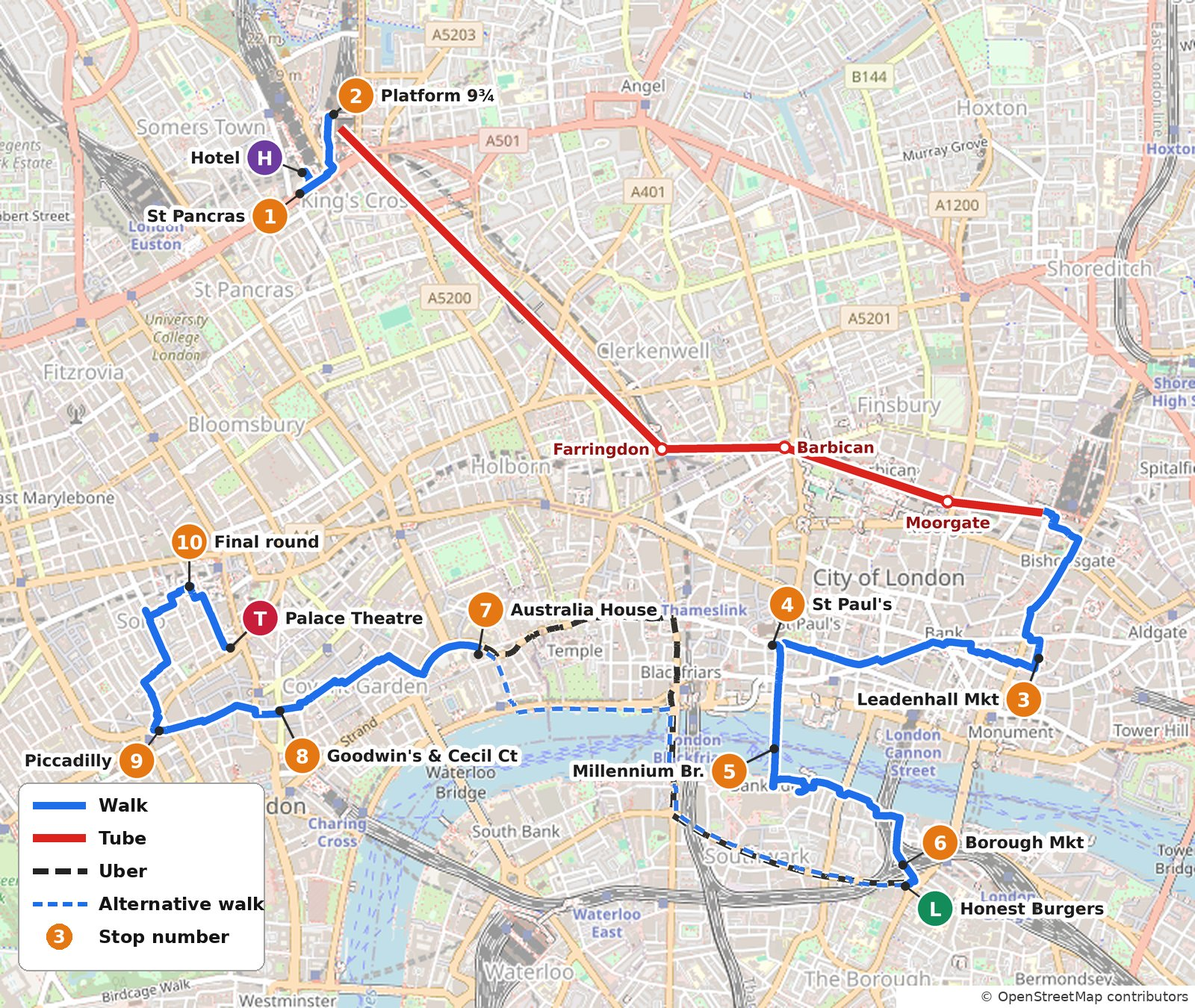
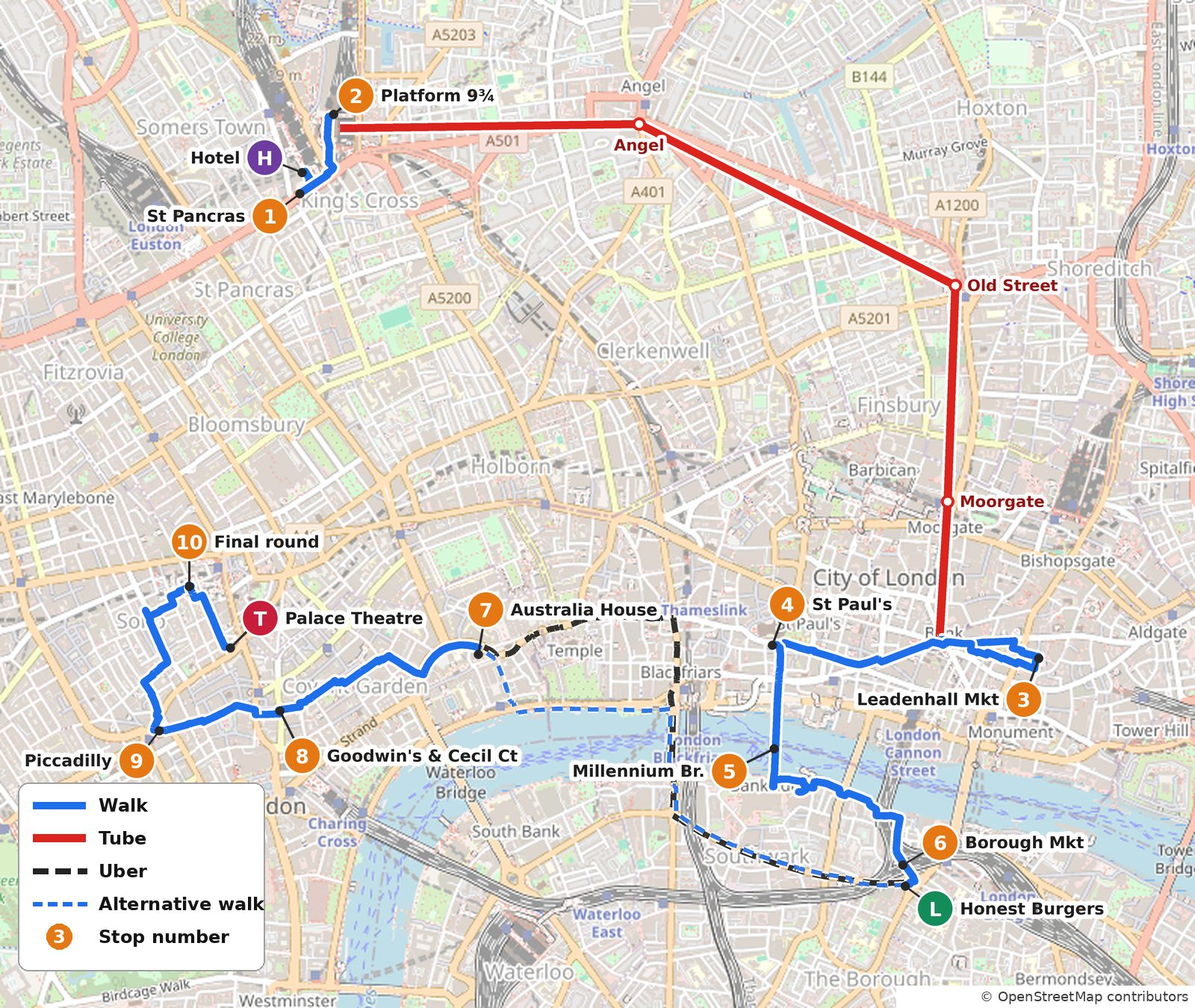
Tighter Tuesday plan

diff --git a/index.html b/index.html
@@ -138,37 +138,40 @@ Piccadilly line from Heathrow Terminals 2 &amp; 3 toward <b>Cockfosters</b>, 17 
 <div class="title">Rules → hotel</div><div class="body">Maiden Lane is pedestrian: set pickup on <b>Southampton St</b> or the <b>Strand</b>. Black cabs pass on the Strand.</div><div class="btns"><a class="btn g" href="https://www.google.com/maps/dir/?api=1&amp;origin=51.51083,-0.12319&amp;destination=51.52990,-0.12580&amp;travelmode=driving" target="_blank" rel="noopener">Google Maps</a><a class="btn a" href="https://maps.apple.com/?saddr=51.51083,-0.12319&amp;daddr=51.52990,-0.12580&amp;dirflg=d" target="_blank" rel="noopener">Apple Maps</a><a class="btn u" href="https://m.uber.com/ul/?action=setPickup&amp;pickup=my_location&amp;dropoff%5Blatitude%5D=51.52990&amp;dropoff%5Blongitude%5D=-0.12580&amp;dropoff%5Bnickname%5D=St+Pancras+London+hotel" target="_blank" rel="noopener">Uber</a></div></div></div></div><details class="places"><summary>Open any stop on a map</summary><ul><li><span>Hotel</span><a class="pin g" href="https://www.google.com/maps/search/?api=1&amp;query=51.52990,-0.12580" target="_blank" rel="noopener">Google</a><a class="pin a" href="https://maps.apple.com/?ll=51.52990,-0.12580&amp;q=St+Pancras+London+hotel" target="_blank" rel="noopener">Apple</a></li><li><span>Option B: Euston (Tube)</span><a class="pin g" href="https://www.google.com/maps/search/?api=1&amp;query=51.52737,-0.13275" target="_blank" rel="noopener">Google</a><a class="pin a" href="https://maps.apple.com/?ll=51.52737,-0.13275&amp;q=Euston+Underground+station" target="_blank" rel="noopener">Apple</a></li><li><span>1 · The Queens Arms</span><a class="pin g" href="https://www.google.com/maps/search/?api=1&amp;query=51.49259,-0.13918" target="_blank" rel="noopener">Google</a><a class="pin a" href="https://maps.apple.com/?ll=51.49259,-0.13918&amp;q=The+Queens+Arms" target="_blank" rel="noopener">Apple</a></li><li><span>2 · Victoria Memorial</span><a class="pin g" href="https://www.google.com/maps/search/?api=1&amp;query=51.50184,-0.14059" target="_blank" rel="noopener">Google</a><a class="pin a" href="https://maps.apple.com/?ll=51.50184,-0.14059&amp;q=Victoria+Memorial" target="_blank" rel="noopener">Apple</a></li><li><span>3 · Blue Bridge</span><a class="pin g" href="https://www.google.com/maps/search/?api=1&amp;query=51.50232,-0.13520" target="_blank" rel="noopener">Google</a><a class="pin a" href="https://maps.apple.com/?ll=51.50232,-0.13520&amp;q=Blue+Bridge,+St+James%27s+Park" target="_blank" rel="noopener">Apple</a></li><li><span>4 · Westminster Abbey</span><a class="pin g" href="https://www.google.com/maps/search/?api=1&amp;query=51.49944,-0.12800" target="_blank" rel="noopener">Google</a><a class="pin a" href="https://maps.apple.com/?ll=51.49944,-0.12800&amp;q=Westminster+Abbey" target="_blank" rel="noopener">Apple</a></li><li><span>5 · Westminster Bridge</span><a class="pin g" href="https://www.google.com/maps/search/?api=1&amp;query=51.50085,-0.12178" target="_blank" rel="noopener">Google</a><a class="pin a" href="https://maps.apple.com/?ll=51.50085,-0.12178&amp;q=Westminster+Bridge" target="_blank" rel="noopener">Apple</a></li><li><span>6 · Downing St gates</span><a class="pin g" href="https://www.google.com/maps/search/?api=1&amp;query=51.50318,-0.12632" target="_blank" rel="noopener">Google</a><a class="pin a" href="https://maps.apple.com/?ll=51.50318,-0.12632&amp;q=Downing+Street" target="_blank" rel="noopener">Apple</a></li><li><span>7 · Horse Guards</span><a class="pin g" href="https://www.google.com/maps/search/?api=1&amp;query=51.50478,-0.12690" target="_blank" rel="noopener">Google</a><a class="pin a" href="https://maps.apple.com/?ll=51.50478,-0.12690&amp;q=Horse+Guards" target="_blank" rel="noopener">Apple</a></li><li><span>8 · Trafalgar Square</span><a class="pin g" href="https://www.google.com/maps/search/?api=1&amp;query=51.50790,-0.12810" target="_blank" rel="noopener">Google</a><a class="pin a" href="https://maps.apple.com/?ll=51.50790,-0.12810&amp;q=Trafalgar+Square" target="_blank" rel="noopener">Apple</a></li><li><span>9 · Covent Garden Piazza</span><a class="pin g" href="https://www.google.com/maps/search/?api=1&amp;query=51.51198,-0.12274" target="_blank" rel="noopener">Google</a><a class="pin a" href="https://maps.apple.com/?ll=51.51198,-0.12274&amp;q=Covent+Garden" target="_blank" rel="noopener">Apple</a></li><li><span>10 · Rules</span><a class="pin g" href="https://www.google.com/maps/search/?api=1&amp;query=51.51083,-0.12319" target="_blank" rel="noopener">Google</a><a class="pin a" href="https://maps.apple.com/?ll=51.51083,-0.12319&amp;q=Rules" target="_blank" rel="noopener">Apple</a></li></ul></details></section>
 <section id="tue" class="tab"><div class="priv">Host copy, keep private</div><h2>Tuesday 17 Nov <small>The Hogwarts Challenge</small></h2>
 <button class="mapbtn" data-src="img/tue_overview.jpg"><img src="img/tue_overview.jpg" alt="Whole day. Numbers = the 10 game stops; L lunch, T theatre."><span class="zoomhint">Tap to enlarge</span></button><div class="cap">Whole day. Numbers = the 10 game stops; L lunch, T theatre.</div><div class="thumbs"><button class="thumb" data-src="img/tue_morning.jpg"><img src="img/tue_morning.jpg" alt="Morning: KX → Borough" loading="lazy"><span>Morning: KX → Borough</span></button><button class="thumb" data-src="img/tue_west.jpg"><img src="img/tue_west.jpg" alt="Afternoon: Strand → theatre" loading="lazy"><span>Afternoon: Strand → theatre</span></button></div>
-<div class="sum">Walking ≈ <b>7.0 km</b> (9.4 km if you walk after lunch) · Tube ×1 · Uber ×1–2</div>
-<div class="tl"><div class="item stop"><div class="dot">•</div><div class="card"><div class="top"><span class="time">8:00–8:45</span><span class="badge stop">Stop</span></div>
-<div class="title">Breakfast: Booking Office 1869 (in the hotel)</div><div class="body">Planned, not reserved. Mention the coeliac requirement.</div><div class="btns"><a class="btn g sm" href="https://www.google.com/maps/search/?api=1&amp;query=51.53010,-0.12572" target="_blank" rel="noopener">Google pin</a><a class="btn a sm" href="https://maps.apple.com/?ll=51.53010,-0.12572&amp;q=Booking+Office+1869" target="_blank" rel="noopener">Apple pin</a></div></div></div><div class="item walk"><div class="dot">1</div><div class="card">
-<div class="top"><span class="time">8:45–9:05</span><span class="badge walk">Walk</span><span class="dur">2 min · 0.2 km</span></div>
-<div class="title">→ ① St Pancras frontage (Euston Rd)</div><div class="body">Full Gothic frontage and clock tower. Round 1.</div><div class="btns"><a class="btn g" href="https://www.google.com/maps/dir/?api=1&amp;origin=51.53010,-0.12572&amp;destination=51.52935,-0.12585&amp;travelmode=walking" target="_blank" rel="noopener">Google Maps</a><a class="btn a" href="https://maps.apple.com/?saddr=51.53010,-0.12572&amp;daddr=51.52935,-0.12585&amp;dirflg=w" target="_blank" rel="noopener">Apple Maps</a></div></div></div><div class="item walk"><div class="dot">2</div><div class="card">
-<div class="top"><span class="time">9:05–9:40</span><span class="badge walk">Walk</span><span class="dur">5 min · 0.4 km</span></div>
-<div class="title">→ ② King's Cross, Platform 9¾</div><div class="body">Across Pancras Rd into the western concourse. Photo queue + shop. Round 2.</div><div class="btns"><a class="btn g" href="https://www.google.com/maps/dir/?api=1&amp;origin=51.52935,-0.12585&amp;destination=51.53219,-0.12391&amp;travelmode=walking" target="_blank" rel="noopener">Google Maps</a><a class="btn a" href="https://maps.apple.com/?saddr=51.52935,-0.12585&amp;daddr=51.53219,-0.12391&amp;dirflg=w" target="_blank" rel="noopener">Apple Maps</a></div></div></div><div class="item tube"><div class="dot">3</div><div class="card">
-<div class="top"><span class="time">~9:40–10:00</span><span class="badge tube">Tube</span><span class="dur">4 stops · ~10 min</span></div>
-<div class="title">King's Cross St Pancras → Liverpool Street</div><div class="body"><b>Circle, Hammersmith &amp; City or Metropolitan</b> line, <b>eastbound</b> (H&amp;C toward Barking, Met toward Aldgate).<br><b>4 stops:</b> Farringdon → Barbican → Moorgate → <b>Liverpool Street</b>.<br>~10 min on the train + 5–10 min to the platform. Off-peak after 9:30. Each person taps their own card.<br><i>Backup:</i> Northern line toward Morden via Bank, 4 stops to <b>Bank</b>, then 6 min walk.</div><div class="btns"><a class="btn g" href="https://www.google.com/maps/dir/?api=1&amp;origin=51.53168,-0.12354&amp;destination=51.51794,-0.08316&amp;travelmode=transit" target="_blank" rel="noopener">Google Maps</a><a class="btn a" href="https://maps.apple.com/?saddr=51.53168,-0.12354&amp;daddr=51.51794,-0.08316&amp;dirflg=r" target="_blank" rel="noopener">Apple Maps</a></div></div></div><div class="item walk"><div class="dot">4</div><div class="card">
-<div class="top"><span class="time">~10:00–10:20</span><span class="badge walk">Walk</span><span class="dur">12 min · 0.9 km</span></div>
-<div class="title">Liverpool St → ③ Leadenhall Market / Bull's Head Passage</div><div class="body">Bishopsgate → Leadenhall St → Whittington Ave. 10:20–10:50 here; optional coffee (Rosslyn).</div><div class="btns"><a class="btn g" href="https://www.google.com/maps/dir/?api=1&amp;origin=51.51794,-0.08316&amp;destination=51.51273,-0.08340&amp;travelmode=walking" target="_blank" rel="noopener">Google Maps</a><a class="btn a" href="https://maps.apple.com/?saddr=51.51794,-0.08316&amp;daddr=51.51273,-0.08340&amp;dirflg=w" target="_blank" rel="noopener">Apple Maps</a></div></div></div><div class="item walk"><div class="dot">5</div><div class="card">
-<div class="top"><span class="time">10:50–11:35</span><span class="badge walk">Walk</span><span class="dur">15 min · 1.1 km</span></div>
-<div class="title">→ ④ St Paul's Cathedral (exterior)</div><div class="body">Cornhill → Queen Victoria St → Cannon St.</div><div class="btns"><a class="btn g" href="https://www.google.com/maps/dir/?api=1&amp;origin=51.51245,-0.08403&amp;destination=51.51320,-0.09870&amp;travelmode=walking" target="_blank" rel="noopener">Google Maps</a><a class="btn a" href="https://maps.apple.com/?saddr=51.51245,-0.08403&amp;daddr=51.51320,-0.09870&amp;dirflg=w" target="_blank" rel="noopener">Apple Maps</a></div></div></div><div class="item walk"><div class="dot">6</div><div class="card">
-<div class="top"><span class="time">11:35–12:20</span><span class="badge walk">Walk</span><span class="dur">20 min · 1.5 km</span></div>
-<div class="title">→ ⑤ Millennium Bridge → Bankside → ⑥ Borough Market</div><div class="body">Peter's Hill, cross the bridge, left along Bankside past the Globe, Clink St, to Stoney St. Round 6 12:20–12:45.</div><div class="btns"><a class="btn g" href="https://www.google.com/maps/dir/?api=1&amp;origin=51.51320,-0.09870&amp;destination=51.50534,-0.09120&amp;travelmode=walking&amp;waypoints=51.50950,-0.09860" target="_blank" rel="noopener">Google Maps</a><a class="btn a" href="https://maps.apple.com/?saddr=51.51320,-0.09870&amp;daddr=51.50534,-0.09120&amp;dirflg=w" target="_blank" rel="noopener">Apple Maps</a></div></div></div><div class="item walk"><div class="dot">7</div><div class="card">
-<div class="top"><span class="time">~12:40</span><span class="badge walk">Walk</span><span class="dur">2 min · 0.1 km</span></div>
-<div class="title">Stoney St → Honest Burgers, 5–7 Southwark St</div><div class="body">Lunch 12:45–1:45 (walk-in; allow for a queue). Mention coeliac.</div><div class="btns"><a class="btn g" href="https://www.google.com/maps/dir/?api=1&amp;origin=51.50534,-0.09120&amp;destination=51.50458,-0.09106&amp;travelmode=walking" target="_blank" rel="noopener">Google Maps</a><a class="btn a" href="https://maps.apple.com/?saddr=51.50534,-0.09120&amp;daddr=51.50458,-0.09106&amp;dirflg=w" target="_blank" rel="noopener">Apple Maps</a></div></div></div><div class="item uber"><div class="dot">8</div><div class="card">
-<div class="top"><span class="time">1:45–2:05</span><span class="badge uber">Uber</span><span class="dur">10–20 min</span></div>
-<div class="title">Honest Burgers → ⑦ Australia House, Strand</div><div class="body">Recommended Uber: ~4.3 km walked by now and no one-seat Tube. Request on Southwark St. <i>Walk alt:</i> Blackfriars Bridge + Embankment, 31 min · 2.4 km.</div><div class="btns"><a class="btn g" href="https://www.google.com/maps/dir/?api=1&amp;origin=51.50458,-0.09106&amp;destination=51.51287,-0.11559&amp;travelmode=driving" target="_blank" rel="noopener">Google Maps</a><a class="btn a" href="https://maps.apple.com/?saddr=51.50458,-0.09106&amp;daddr=51.51287,-0.11559&amp;dirflg=d" target="_blank" rel="noopener">Apple Maps</a><a class="btn u" href="https://m.uber.com/ul/?action=setPickup&amp;pickup=my_location&amp;dropoff%5Blatitude%5D=51.51287&amp;dropoff%5Blongitude%5D=-0.11559&amp;dropoff%5Bnickname%5D=Australia+House%2C+Strand" target="_blank" rel="noopener">Uber</a><a class="btn x" href="https://www.google.com/maps/dir/?api=1&amp;origin=51.50458,-0.09106&amp;destination=51.51287,-0.11559&amp;travelmode=walking&amp;waypoints=51.50760,-0.10400" target="_blank" rel="noopener">Walk alt (Google)</a></div></div></div><div class="item walk"><div class="dot">9</div><div class="card">
-<div class="top"><span class="time">2:50–3:45</span><span class="badge walk">Walk</span><span class="dur">15 min · 1.1 km</span></div>
-<div class="title">→ ⑧ Goodwin's Court → Cecil Court</div><div class="body">Through Covent Garden (King St) to Goodwin's Court off St Martin's Lane, then across to Cecil Court.</div><div class="btns"><a class="btn g" href="https://www.google.com/maps/dir/?api=1&amp;origin=51.51287,-0.11559&amp;destination=51.51073,-0.12766&amp;travelmode=walking&amp;waypoints=51.51095,-0.12633" target="_blank" rel="noopener">Google Maps</a><a class="btn a" href="https://maps.apple.com/?saddr=51.51287,-0.11559&amp;daddr=51.51073,-0.12766&amp;dirflg=w" target="_blank" rel="noopener">Apple Maps</a></div></div></div><div class="item walk"><div class="dot">10</div><div class="card">
-<div class="top"><span class="time">3:45–4:15</span><span class="badge walk">Walk</span><span class="dur">6 min · 0.4 km</span></div>
-<div class="title">Cecil Court → ⑨ Piccadilly Circus</div><div class="body">Cross Charing Cross Rd and go <b>straight on</b> via Leicester Sq. Don't head north (toward Cambridge Circus).</div><div class="btns"><a class="btn g" href="https://www.google.com/maps/dir/?api=1&amp;origin=51.51071,-0.12834&amp;destination=51.51014,-0.13394&amp;travelmode=walking" target="_blank" rel="noopener">Google Maps</a><a class="btn a" href="https://maps.apple.com/?saddr=51.51071,-0.12834&amp;daddr=51.51014,-0.13394&amp;dirflg=w" target="_blank" rel="noopener">Apple Maps</a></div></div></div><div class="item stop"><div class="dot">•</div><div class="card"><div class="top"><span class="time">4:15–6:00</span><span class="badge stop">Stop</span></div>
-<div class="title">Coffee &amp; rest (4:15–5), early dinner (5–6). Restaurant TBD</div><div class="body">Pick somewhere west of Wardour St so the walk to the final round avoids Shaftesbury Ave / Cambridge Circus.</div></div></div><div class="item walk"><div class="dot">11</div><div class="card">
-<div class="top"><span class="time">~6:00–6:20</span><span class="badge walk">Walk</span><span class="dur">12 min · 0.9 km</span></div>
-<div class="title">→ ⑩ Final round (suggested: Soho Square)</div><div class="body">Example from Piccadilly: Brewer St → Wardour St → Dean St → Soho Square. Suggested spot only: check the sightline first, then do the reveal.</div><div class="btns"><a class="btn g" href="https://www.google.com/maps/dir/?api=1&amp;origin=51.51014,-0.13394&amp;destination=51.51530,-0.13220&amp;travelmode=walking&amp;waypoints=51.51223,-0.13416%7C51.51445,-0.13472" target="_blank" rel="noopener">Google Maps</a><a class="btn a" href="https://maps.apple.com/?saddr=51.51014,-0.13394&amp;daddr=51.51530,-0.13220&amp;dirflg=w" target="_blank" rel="noopener">Apple Maps</a></div></div></div><div class="item walk"><div class="dot">12</div><div class="card">
-<div class="top"><span class="time">6:20–6:30</span><span class="badge walk">Walk</span><span class="dur">4 min · 0.3 km</span></div>
-<div class="title">Soho Square → Palace Theatre</div><div class="body">Down Greek or Frith St to Cambridge Circus. <b>Theatre advises arriving 1 hour before</b>; latecomers not admitted.</div><div class="btns"><a class="btn g" href="https://www.google.com/maps/dir/?api=1&amp;origin=51.51530,-0.13220&amp;destination=51.51310,-0.12984&amp;travelmode=walking" target="_blank" rel="noopener">Google Maps</a><a class="btn a" href="https://maps.apple.com/?saddr=51.51530,-0.13220&amp;daddr=51.51310,-0.12984&amp;dirflg=w" target="_blank" rel="noopener">Apple Maps</a></div></div></div><div class="item stop"><div class="dot">•</div><div class="card"><div class="top"><span class="time">7:00</span><span class="badge stop">Stop</span></div>
+<div class="sum">Walking ≈ <b>6.7 km</b> (9.0 km if you walk after lunch) · Tube ×1 · Uber ×1–2 · at Honest Burgers ~11:50</div>
+<div class="tl"><div class="item stop"><div class="dot">•</div><div class="card"><div class="top"><span class="time">8:00–8:40</span><span class="badge stop">Stop</span></div>
+<div class="title">Breakfast: Booking Office 1869 (in the hotel)</div><div class="body">Planned, not reserved. Mention the coeliac requirement. Ask for the bill a little early.</div><div class="btns"><a class="btn g sm" href="https://www.google.com/maps/search/?api=1&amp;query=51.53010,-0.12572" target="_blank" rel="noopener">Google pin</a><a class="btn a sm" href="https://maps.apple.com/?ll=51.53010,-0.12572&amp;q=Booking+Office+1869" target="_blank" rel="noopener">Apple pin</a></div></div></div><div class="item walk"><div class="dot">1</div><div class="card">
+<div class="top"><span class="time">8:40–8:43</span><span class="badge walk">Walk</span><span class="dur">2 min · 0.2 km</span></div>
+<div class="title">→ ① St Pancras frontage (Euston Rd)</div><div class="body">Full Gothic frontage and clock tower. <b>Round 1: 8:43–8:53.</b></div><div class="btns"><a class="btn g" href="https://www.google.com/maps/dir/?api=1&amp;origin=51.53010,-0.12572&amp;destination=51.52935,-0.12585&amp;travelmode=walking" target="_blank" rel="noopener">Google Maps</a><a class="btn a" href="https://maps.apple.com/?saddr=51.53010,-0.12572&amp;daddr=51.52935,-0.12585&amp;dirflg=w" target="_blank" rel="noopener">Apple Maps</a></div></div></div><div class="item walk"><div class="dot">2</div><div class="card">
+<div class="top"><span class="time">8:53–9:00</span><span class="badge walk">Walk</span><span class="dur">5 min · 0.4 km</span></div>
+<div class="title">→ ② King's Cross, Platform 9¾</div><div class="body">Across Pancras Rd into the western concourse. <b>9:00–9:25 here:</b> Round 2, photo, quick shop.<div class="warnbox"><b>Queue cap: 15 min.</b> If the trolley queue looks longer, skip the official photo, take your own from beside the line and do the round there.</div></div><div class="btns"><a class="btn g" href="https://www.google.com/maps/dir/?api=1&amp;origin=51.52935,-0.12585&amp;destination=51.53219,-0.12391&amp;travelmode=walking" target="_blank" rel="noopener">Google Maps</a><a class="btn a" href="https://maps.apple.com/?saddr=51.52935,-0.12585&amp;daddr=51.53219,-0.12391&amp;dirflg=w" target="_blank" rel="noopener">Apple Maps</a></div></div></div><div class="item tube"><div class="dot">3</div><div class="card">
+<div class="top"><span class="time">9:25–9:50</span><span class="badge tube">Tube</span><span class="dur">4 stops · ~9 min</span></div>
+<div class="title">Northern line: King's Cross St Pancras → Bank</div><div class="body">Follow signs to the <b>Northern line southbound</b> (trains via Bank).<br><b>4 stops:</b> Angel → Old Street → Moorgate → <b>Bank</b>. About 9 min on the train. TfL's planner allows ~23 min from the platform to Leadenhall, including the long walk out at Bank.<br>Tapping in at about 9:30 is off-peak. Each person taps their own card.</div><div class="btns"><a class="btn g" href="https://www.google.com/maps/dir/?api=1&amp;origin=51.53168,-0.12354&amp;destination=51.51340,-0.08909&amp;travelmode=transit" target="_blank" rel="noopener">Google Maps</a><a class="btn a" href="https://maps.apple.com/?saddr=51.53168,-0.12354&amp;daddr=51.51340,-0.08909&amp;dirflg=r" target="_blank" rel="noopener">Apple Maps</a></div></div></div><div class="item walk"><div class="dot">4</div><div class="card">
+<div class="top"><span class="time">9:50–9:55</span><span class="badge walk">Walk</span><span class="dur">~6 min · 0.45 km</span></div>
+<div class="title">Bank → ③ Leadenhall Market / Bull's Head Passage</div><div class="body">Exit toward <b>Cornhill</b>: Cornhill → St Peter's Alley → Leadenhall Market. <b>9:55–10:20 here:</b> Round 3 + takeaway coffee.</div><div class="btns"><a class="btn g" href="https://www.google.com/maps/dir/?api=1&amp;origin=51.51340,-0.08909&amp;destination=51.51273,-0.08340&amp;travelmode=walking" target="_blank" rel="noopener">Google Maps</a><a class="btn a" href="https://maps.apple.com/?saddr=51.51340,-0.08909&amp;daddr=51.51273,-0.08340&amp;dirflg=w" target="_blank" rel="noopener">Apple Maps</a></div></div></div><div class="item walk"><div class="dot">5</div><div class="card">
+<div class="top"><span class="time">10:20–10:36</span><span class="badge walk">Walk</span><span class="dur">15 min · 1.1 km</span></div>
+<div class="title">→ ④ St Paul's Cathedral (exterior)</div><div class="body">Cornhill → Queen Victoria St → Cannon St. <b>Round 4: 10:36–10:50.</b></div><div class="btns"><a class="btn g" href="https://www.google.com/maps/dir/?api=1&amp;origin=51.51245,-0.08403&amp;destination=51.51320,-0.09870&amp;travelmode=walking" target="_blank" rel="noopener">Google Maps</a><a class="btn a" href="https://maps.apple.com/?saddr=51.51245,-0.08403&amp;daddr=51.51320,-0.09870&amp;dirflg=w" target="_blank" rel="noopener">Apple Maps</a></div></div></div><div class="item walk"><div class="dot">6</div><div class="card">
+<div class="top"><span class="time">10:50–11:20</span><span class="badge walk">Walk</span><span class="dur">20 min · 1.5 km</span></div>
+<div class="title">→ ⑤ Millennium Bridge → Bankside → ⑥ Borough Market</div><div class="body">Peter's Hill, Round 5 on the bridge, then left along Bankside past the Globe and Clink St to Stoney St. <b>Borough Market round 6: 11:20–11:50.</b></div><div class="btns"><a class="btn g" href="https://www.google.com/maps/dir/?api=1&amp;origin=51.51320,-0.09870&amp;destination=51.50534,-0.09120&amp;travelmode=walking&amp;waypoints=51.50950,-0.09860" target="_blank" rel="noopener">Google Maps</a><a class="btn a" href="https://maps.apple.com/?saddr=51.51320,-0.09870&amp;daddr=51.50534,-0.09120&amp;dirflg=w" target="_blank" rel="noopener">Apple Maps</a></div></div></div><div class="item walk"><div class="dot">7</div><div class="card">
+<div class="top"><span class="time">11:50–11:52</span><span class="badge walk">Walk</span><span class="dur">2 min · 0.1 km</span></div>
+<div class="title">Stoney St → Honest Burgers, 5–7 Southwark St</div><div class="body"><b>Lunch ~11:55–12:55</b> (walk-in; opens 10:30, so arriving before the lunch rush helps). Mention coeliac.</div><div class="btns"><a class="btn g" href="https://www.google.com/maps/dir/?api=1&amp;origin=51.50534,-0.09120&amp;destination=51.50458,-0.09106&amp;travelmode=walking" target="_blank" rel="noopener">Google Maps</a><a class="btn a" href="https://maps.apple.com/?saddr=51.50534,-0.09120&amp;daddr=51.50458,-0.09106&amp;dirflg=w" target="_blank" rel="noopener">Apple Maps</a></div></div></div><div class="item uber"><div class="dot">8</div><div class="card">
+<div class="top"><span class="time">~12:55–1:15</span><span class="badge uber">Uber</span><span class="dur">10–20 min</span></div>
+<div class="title">Honest Burgers → ⑦ Australia House, Strand</div><div class="body">Recommended Uber: ~3.9 km walked by now and no one-seat Tube. Request on Southwark St. <i>Walk alt (time allows):</i> Blackfriars Bridge + Embankment, 31 min · 2.4 km. <b>Round 7: ~1:15–2:00.</b></div><div class="btns"><a class="btn g" href="https://www.google.com/maps/dir/?api=1&amp;origin=51.50458,-0.09106&amp;destination=51.51287,-0.11559&amp;travelmode=driving" target="_blank" rel="noopener">Google Maps</a><a class="btn a" href="https://maps.apple.com/?saddr=51.50458,-0.09106&amp;daddr=51.51287,-0.11559&amp;dirflg=d" target="_blank" rel="noopener">Apple Maps</a><a class="btn u" href="https://m.uber.com/ul/?action=setPickup&amp;pickup=my_location&amp;dropoff%5Blatitude%5D=51.51287&amp;dropoff%5Blongitude%5D=-0.11559&amp;dropoff%5Bnickname%5D=Australia+House%2C+Strand" target="_blank" rel="noopener">Uber</a><a class="btn x" href="https://www.google.com/maps/dir/?api=1&amp;origin=51.50458,-0.09106&amp;destination=51.51287,-0.11559&amp;travelmode=walking&amp;waypoints=51.50760,-0.10400" target="_blank" rel="noopener">Walk alt (Google)</a></div></div></div><div class="item walk"><div class="dot">9</div><div class="card">
+<div class="top"><span class="time">2:00–2:55</span><span class="badge walk">Walk</span><span class="dur">15 min · 1.1 km</span></div>
+<div class="title">→ ⑧ Goodwin's Court → Cecil Court</div><div class="body">Through Covent Garden (King St) to Goodwin's Court off St Martin's Lane, then across to Cecil Court. Round 8 along the way.</div><div class="btns"><a class="btn g" href="https://www.google.com/maps/dir/?api=1&amp;origin=51.51287,-0.11559&amp;destination=51.51073,-0.12766&amp;travelmode=walking&amp;waypoints=51.51095,-0.12633" target="_blank" rel="noopener">Google Maps</a><a class="btn a" href="https://maps.apple.com/?saddr=51.51287,-0.11559&amp;daddr=51.51073,-0.12766&amp;dirflg=w" target="_blank" rel="noopener">Apple Maps</a></div></div></div><div class="item walk"><div class="dot">10</div><div class="card">
+<div class="top"><span class="time">2:55–3:30</span><span class="badge walk">Walk</span><span class="dur">6 min · 0.4 km</span></div>
+<div class="title">Cecil Court → ⑨ Piccadilly Circus</div><div class="body">Cross Charing Cross Rd and go <b>straight on</b> via Leicester Sq. Don't head north (toward Cambridge Circus). Round 9 at Piccadilly, done by ~3:30.</div><div class="btns"><a class="btn g" href="https://www.google.com/maps/dir/?api=1&amp;origin=51.51071,-0.12834&amp;destination=51.51014,-0.13394&amp;travelmode=walking" target="_blank" rel="noopener">Google Maps</a><a class="btn a" href="https://maps.apple.com/?saddr=51.51071,-0.12834&amp;daddr=51.51014,-0.13394&amp;dirflg=w" target="_blank" rel="noopener">Apple Maps</a></div></div></div><div class="item stop"><div class="dot">•</div><div class="card"><div class="top"><span class="time">3:30–4:30</span><span class="badge stop">Stop</span></div>
+<div class="title">Seated break: coffee &amp; rest</div><div class="body">Somewhere comfortable near Piccadilly / west Soho. No rush; the afternoon has ~45 min more slack than before.</div></div></div><div class="item stop"><div class="dot">•</div><div class="card"><div class="top"><span class="time">4:30–5:30</span><span class="badge stop">Stop</span></div>
+<div class="title">Dinner (gluten-free spot TBD)</div><div class="body">Near the theatre. Restaurant still to be confirmed. Mention the coeliac requirement.</div></div></div><div class="item walk"><div class="dot">11</div><div class="card">
+<div class="top"><span class="time">5:30–5:50</span><span class="badge walk">Walk</span><span class="dur">from dinner</span></div>
+<div class="title">Dinner → ⑩ Final round (suggested: Soho Square)</div>
+<div class="body">Walk from the restaurant to Soho Square (buttons start from where you are). Suggested spot only: check the sightline first, then do the reveal.</div>
+<div class="btns"><a class="btn g" href="https://www.google.com/maps/dir/?api=1&amp;destination=51.51530,-0.13220&amp;travelmode=walking" target="_blank" rel="noopener">Google Maps</a><a class="btn a" href="https://maps.apple.com/?daddr=51.51530,-0.13220&amp;dirflg=w" target="_blank" rel="noopener">Apple Maps</a></div></div></div><div class="item walk"><div class="dot">12</div><div class="card">
+<div class="top"><span class="time">5:50–5:55</span><span class="badge walk">Walk</span><span class="dur">4 min · 0.3 km</span></div>
+<div class="title">Soho Square → Palace Theatre</div><div class="body">Down Greek or Frith St to Cambridge Circus.<div class="warnbox"><b>Be at the Palace Theatre by 6:00 sharp.</b> The theatre asks you to arrive 1 hour early; bags are searched and latecomers aren't admitted.</div></div><div class="btns"><a class="btn g" href="https://www.google.com/maps/dir/?api=1&amp;origin=51.51530,-0.13220&amp;destination=51.51310,-0.12984&amp;travelmode=walking" target="_blank" rel="noopener">Google Maps</a><a class="btn a" href="https://maps.apple.com/?saddr=51.51530,-0.13220&amp;daddr=51.51310,-0.12984&amp;dirflg=w" target="_blank" rel="noopener">Apple Maps</a></div></div></div><div class="item stop"><div class="dot">•</div><div class="card"><div class="top"><span class="time">7:00</span><span class="badge stop">Stop</span></div>
 <div class="title">Harry Potter and the Cursed Child</div><div class="body">Palace Theatre, 113 Shaftesbury Ave, W1D 5AY · <b>Stalls Row H, seats 14 &amp; 15</b> · e-tickets emailed 24 h before; also on the order page.</div><div class="secret" data-k="cc"></div><div class="btns"><a class="btn g sm" href="https://www.google.com/maps/search/?api=1&amp;query=51.51310,-0.12984" target="_blank" rel="noopener">Google pin</a><a class="btn a sm" href="https://maps.apple.com/?ll=51.51310,-0.12984&amp;q=Palace+Theatre" target="_blank" rel="noopener">Apple pin</a></div></div></div><div class="item uber"><div class="dot">13</div><div class="card">
 <div class="top"><span class="time">After show</span><span class="badge uber">Uber</span><span class="dur">15–25 min</span></div>
-<div class="title">Palace Theatre → hotel</div><div class="body">Walk a couple of minutes away from the crowds before requesting. <i>Tube alt:</i> Leicester Sq (4 min walk) → Piccadilly line toward Cockfosters, 4 stops to King's Cross St Pancras.</div><div class="btns"><a class="btn g" href="https://www.google.com/maps/dir/?api=1&amp;origin=51.51310,-0.12984&amp;destination=51.52990,-0.12580&amp;travelmode=driving" target="_blank" rel="noopener">Google Maps</a><a class="btn a" href="https://maps.apple.com/?saddr=51.51310,-0.12984&amp;daddr=51.52990,-0.12580&amp;dirflg=d" target="_blank" rel="noopener">Apple Maps</a><a class="btn u" href="https://m.uber.com/ul/?action=setPickup&amp;pickup=my_location&amp;dropoff%5Blatitude%5D=51.52990&amp;dropoff%5Blongitude%5D=-0.12580&amp;dropoff%5Bnickname%5D=St+Pancras+London+hotel" target="_blank" rel="noopener">Uber</a><a class="btn x" href="https://www.google.com/maps/dir/?api=1&amp;origin=51.51139,-0.12843&amp;destination=51.53168,-0.12354&amp;travelmode=transit" target="_blank" rel="noopener">Tube alt (Google)</a></div></div></div></div><details class="places"><summary>Open any stop on a map</summary><ul><li><span>Hotel / Booking Office 1869</span><a class="pin g" href="https://www.google.com/maps/search/?api=1&amp;query=51.53010,-0.12572" target="_blank" rel="noopener">Google</a><a class="pin a" href="https://maps.apple.com/?ll=51.53010,-0.12572&amp;q=Booking+Office+1869" target="_blank" rel="noopener">Apple</a></li><li><span>① St Pancras frontage</span><a class="pin g" href="https://www.google.com/maps/search/?api=1&amp;query=51.52935,-0.12585" target="_blank" rel="noopener">Google</a><a class="pin a" href="https://maps.apple.com/?ll=51.52935,-0.12585&amp;q=St+Pancras" target="_blank" rel="noopener">Apple</a></li><li><span>② Platform 9¾</span><a class="pin g" href="https://www.google.com/maps/search/?api=1&amp;query=51.53219,-0.12391" target="_blank" rel="noopener">Google</a><a class="pin a" href="https://maps.apple.com/?ll=51.53219,-0.12391&amp;q=Platform+9+3%2F4" target="_blank" rel="noopener">Apple</a></li><li><span>③ Leadenhall Market</span><a class="pin g" href="https://www.google.com/maps/search/?api=1&amp;query=51.51273,-0.08340" target="_blank" rel="noopener">Google</a><a class="pin a" href="https://maps.apple.com/?ll=51.51273,-0.08340&amp;q=Leadenhall+Market" target="_blank" rel="noopener">Apple</a></li><li><span>④ St Paul&#x27;s</span><a class="pin g" href="https://www.google.com/maps/search/?api=1&amp;query=51.51320,-0.09870" target="_blank" rel="noopener">Google</a><a class="pin a" href="https://maps.apple.com/?ll=51.51320,-0.09870&amp;q=St+Paul%27s+Cathedral" target="_blank" rel="noopener">Apple</a></li><li><span>⑤ Millennium Bridge</span><a class="pin g" href="https://www.google.com/maps/search/?api=1&amp;query=51.50950,-0.09860" target="_blank" rel="noopener">Google</a><a class="pin a" href="https://maps.apple.com/?ll=51.50950,-0.09860&amp;q=Millennium+Bridge" target="_blank" rel="noopener">Apple</a></li><li><span>⑥ Borough Market, Stoney St</span><a class="pin g" href="https://www.google.com/maps/search/?api=1&amp;query=51.50534,-0.09120" target="_blank" rel="noopener">Google</a><a class="pin a" href="https://maps.apple.com/?ll=51.50534,-0.09120&amp;q=Stoney+Street" target="_blank" rel="noopener">Apple</a></li><li><span>Honest Burgers</span><a class="pin g" href="https://www.google.com/maps/search/?api=1&amp;query=51.50458,-0.09106" target="_blank" rel="noopener">Google</a><a class="pin a" href="https://maps.apple.com/?ll=51.50458,-0.09106&amp;q=Honest+Burgers+Borough" target="_blank" rel="noopener">Apple</a></li><li><span>⑦ Australia House</span><a class="pin g" href="https://www.google.com/maps/search/?api=1&amp;query=51.51287,-0.11559" target="_blank" rel="noopener">Google</a><a class="pin a" href="https://maps.apple.com/?ll=51.51287,-0.11559&amp;q=Australia+House" target="_blank" rel="noopener">Apple</a></li><li><span>⑧ Goodwin&#x27;s Court</span><a class="pin g" href="https://www.google.com/maps/search/?api=1&amp;query=51.51095,-0.12633" target="_blank" rel="noopener">Google</a><a class="pin a" href="https://maps.apple.com/?ll=51.51095,-0.12633&amp;q=Goodwin%27s+Court" target="_blank" rel="noopener">Apple</a></li><li><span>⑧ Cecil Court</span><a class="pin g" href="https://www.google.com/maps/search/?api=1&amp;query=51.51073,-0.12766" target="_blank" rel="noopener">Google</a><a class="pin a" href="https://maps.apple.com/?ll=51.51073,-0.12766&amp;q=Cecil+Court" target="_blank" rel="noopener">Apple</a></li><li><span>⑨ Piccadilly Circus</span><a class="pin g" href="https://www.google.com/maps/search/?api=1&amp;query=51.51014,-0.13394" target="_blank" rel="noopener">Google</a><a class="pin a" href="https://maps.apple.com/?ll=51.51014,-0.13394&amp;q=Piccadilly+Circus" target="_blank" rel="noopener">Apple</a></li><li><span>⑩ Soho Square (suggested)</span><a class="pin g" href="https://www.google.com/maps/search/?api=1&amp;query=51.51530,-0.13220" target="_blank" rel="noopener">Google</a><a class="pin a" href="https://maps.apple.com/?ll=51.51530,-0.13220&amp;q=Soho+Square" target="_blank" rel="noopener">Apple</a></li><li><span>Palace Theatre</span><a class="pin g" href="https://www.google.com/maps/search/?api=1&amp;query=51.51310,-0.12984" target="_blank" rel="noopener">Google</a><a class="pin a" href="https://maps.apple.com/?ll=51.51310,-0.12984&amp;q=Palace+Theatre" target="_blank" rel="noopener">Apple</a></li></ul></details></section>
+<div class="title">Palace Theatre → hotel</div><div class="body">Walk a couple of minutes away from the crowds before requesting. <i>Tube alt:</i> Leicester Sq (4 min walk) → Piccadilly line toward Cockfosters, 4 stops to King's Cross St Pancras.</div><div class="btns"><a class="btn g" href="https://www.google.com/maps/dir/?api=1&amp;origin=51.51310,-0.12984&amp;destination=51.52990,-0.12580&amp;travelmode=driving" target="_blank" rel="noopener">Google Maps</a><a class="btn a" href="https://maps.apple.com/?saddr=51.51310,-0.12984&amp;daddr=51.52990,-0.12580&amp;dirflg=d" target="_blank" rel="noopener">Apple Maps</a><a class="btn u" href="https://m.uber.com/ul/?action=setPickup&amp;pickup=my_location&amp;dropoff%5Blatitude%5D=51.52990&amp;dropoff%5Blongitude%5D=-0.12580&amp;dropoff%5Bnickname%5D=St+Pancras+London+hotel" target="_blank" rel="noopener">Uber</a><a class="btn x" href="https://www.google.com/maps/dir/?api=1&amp;origin=51.51139,-0.12843&amp;destination=51.53168,-0.12354&amp;travelmode=transit" target="_blank" rel="noopener">Tube alt (Google)</a></div></div></div></div><details class="places"><summary>Open any stop on a map</summary><ul><li><span>Hotel / Booking Office 1869</span><a class="pin g" href="https://www.google.com/maps/search/?api=1&amp;query=51.53010,-0.12572" target="_blank" rel="noopener">Google</a><a class="pin a" href="https://maps.apple.com/?ll=51.53010,-0.12572&amp;q=Booking+Office+1869" target="_blank" rel="noopener">Apple</a></li><li><span>① St Pancras frontage</span><a class="pin g" href="https://www.google.com/maps/search/?api=1&amp;query=51.52935,-0.12585" target="_blank" rel="noopener">Google</a><a class="pin a" href="https://maps.apple.com/?ll=51.52935,-0.12585&amp;q=St+Pancras" target="_blank" rel="noopener">Apple</a></li><li><span>② Platform 9¾</span><a class="pin g" href="https://www.google.com/maps/search/?api=1&amp;query=51.53219,-0.12391" target="_blank" rel="noopener">Google</a><a class="pin a" href="https://maps.apple.com/?ll=51.53219,-0.12391&amp;q=Platform+9+3%2F4" target="_blank" rel="noopener">Apple</a></li><li><span>Bank (Tube)</span><a class="pin g" href="https://www.google.com/maps/search/?api=1&amp;query=51.51340,-0.08909" target="_blank" rel="noopener">Google</a><a class="pin a" href="https://maps.apple.com/?ll=51.51340,-0.08909&amp;q=Bank+station" target="_blank" rel="noopener">Apple</a></li><li><span>③ Leadenhall Market</span><a class="pin g" href="https://www.google.com/maps/search/?api=1&amp;query=51.51273,-0.08340" target="_blank" rel="noopener">Google</a><a class="pin a" href="https://maps.apple.com/?ll=51.51273,-0.08340&amp;q=Leadenhall+Market" target="_blank" rel="noopener">Apple</a></li><li><span>④ St Paul&#x27;s</span><a class="pin g" href="https://www.google.com/maps/search/?api=1&amp;query=51.51320,-0.09870" target="_blank" rel="noopener">Google</a><a class="pin a" href="https://maps.apple.com/?ll=51.51320,-0.09870&amp;q=St+Paul%27s+Cathedral" target="_blank" rel="noopener">Apple</a></li><li><span>⑤ Millennium Bridge</span><a class="pin g" href="https://www.google.com/maps/search/?api=1&amp;query=51.50950,-0.09860" target="_blank" rel="noopener">Google</a><a class="pin a" href="https://maps.apple.com/?ll=51.50950,-0.09860&amp;q=Millennium+Bridge" target="_blank" rel="noopener">Apple</a></li><li><span>⑥ Borough Market, Stoney St</span><a class="pin g" href="https://www.google.com/maps/search/?api=1&amp;query=51.50534,-0.09120" target="_blank" rel="noopener">Google</a><a class="pin a" href="https://maps.apple.com/?ll=51.50534,-0.09120&amp;q=Stoney+Street" target="_blank" rel="noopener">Apple</a></li><li><span>Honest Burgers</span><a class="pin g" href="https://www.google.com/maps/search/?api=1&amp;query=51.50458,-0.09106" target="_blank" rel="noopener">Google</a><a class="pin a" href="https://maps.apple.com/?ll=51.50458,-0.09106&amp;q=Honest+Burgers+Borough" target="_blank" rel="noopener">Apple</a></li><li><span>⑦ Australia House</span><a class="pin g" href="https://www.google.com/maps/search/?api=1&amp;query=51.51287,-0.11559" target="_blank" rel="noopener">Google</a><a class="pin a" href="https://maps.apple.com/?ll=51.51287,-0.11559&amp;q=Australia+House" target="_blank" rel="noopener">Apple</a></li><li><span>⑧ Goodwin&#x27;s Court</span><a class="pin g" href="https://www.google.com/maps/search/?api=1&amp;query=51.51095,-0.12633" target="_blank" rel="noopener">Google</a><a class="pin a" href="https://maps.apple.com/?ll=51.51095,-0.12633&amp;q=Goodwin%27s+Court" target="_blank" rel="noopener">Apple</a></li><li><span>⑧ Cecil Court</span><a class="pin g" href="https://www.google.com/maps/search/?api=1&amp;query=51.51073,-0.12766" target="_blank" rel="noopener">Google</a><a class="pin a" href="https://maps.apple.com/?ll=51.51073,-0.12766&amp;q=Cecil+Court" target="_blank" rel="noopener">Apple</a></li><li><span>⑨ Piccadilly Circus</span><a class="pin g" href="https://www.google.com/maps/search/?api=1&amp;query=51.51014,-0.13394" target="_blank" rel="noopener">Google</a><a class="pin a" href="https://maps.apple.com/?ll=51.51014,-0.13394&amp;q=Piccadilly+Circus" target="_blank" rel="noopener">Apple</a></li><li><span>⑩ Soho Square (suggested)</span><a class="pin g" href="https://www.google.com/maps/search/?api=1&amp;query=51.51530,-0.13220" target="_blank" rel="noopener">Google</a><a class="pin a" href="https://maps.apple.com/?ll=51.51530,-0.13220&amp;q=Soho+Square" target="_blank" rel="noopener">Apple</a></li><li><span>Palace Theatre</span><a class="pin g" href="https://www.google.com/maps/search/?api=1&amp;query=51.51310,-0.12984" target="_blank" rel="noopener">Google</a><a class="pin a" href="https://maps.apple.com/?ll=51.51310,-0.12984&amp;q=Palace+Theatre" target="_blank" rel="noopener">Apple</a></li></ul></details></section>
 <section id="wed" class="tab"><div class="priv">Host copy, keep private</div><h2>Wednesday 18 Nov <small>Studio Tour day</small></h2>
 <button class="mapbtn" data-src="img/wed_overview.jpg"><img src="img/wed_overview.jpg" alt="Hotel → Victoria line → Victoria Coach Station."><span class="zoomhint">Tap to enlarge</span></button><div class="cap">Hotel → Victoria line → Victoria Coach Station.</div>
 <div class="note warn"><b>Reconfirm with Premium Tours</b> at least 48 h before departure, i.e. by <b>10:15 a.m. Mon 16 Nov</b> (London): <a class="tel" href="tel:+442077131311">+44 20 7713 1311</a> · <a class="tel" href="mailto:bookings@premiumtours.co.uk">bookings@premiumtours.co.uk</a></div>
@@ -192,7 +195,7 @@ Piccadilly line from Heathrow Terminals 2 &amp; 3 toward <b>Cockfosters</b>, 17 
 <div class="res"><div class="rwhen">Mon 16 Nov · 12:00–13:30</div><div class="rtitle">The Queens Arms</div><div class="rbody">11 Warwick Way, London SW1V 1QT · 2 guests · bar tables<br><a class="tel" href="tel:+442039859446">+44 20 3985 9446</a> · booked via SevenRooms</div><div class="secret" data-k="qa"></div><div class="btns"><a class="btn g sm" href="https://www.google.com/maps/search/?api=1&amp;query=51.49259,-0.13918" target="_blank" rel="noopener">Google pin</a><a class="btn a sm" href="https://maps.apple.com/?ll=51.49259,-0.13918&amp;q=The+Queens+Arms" target="_blank" rel="noopener">Apple pin</a></div></div>
 <div class="res"><div class="rwhen">Mon 16 Nov · <b>19:00</b>–21:00</div><div class="rtitle">Rules</div><div class="rbody">35 Maiden Lane, London WC2E 7LB · 2 guests · main dining room<br><a class="tel" href="tel:+442078365314">+44 20 7836 5314</a><br>Updated from 18:00 to 19:00 (the SevenRooms update email confirms 19:00; older docs say 6 p.m.).<br>Smart dress, no shorts. Cancelling within 24 h or not showing up costs £25 per person.</div><div class="secret" data-k="rules"></div><div class="btns"><a class="btn g sm" href="https://www.google.com/maps/search/?api=1&amp;query=51.51083,-0.12319" target="_blank" rel="noopener">Google pin</a><a class="btn a sm" href="https://maps.apple.com/?ll=51.51083,-0.12319&amp;q=Rules" target="_blank" rel="noopener">Apple pin</a></div></div>
 <div class="res"><div class="rwhen">Tue 17 Nov · 8:00</div><div class="rtitle">Booking Office 1869 (breakfast)</div><div class="rbody">In the hotel. <b>Not reserved yet.</b></div></div>
-<div class="res"><div class="rwhen">Tue 17 Nov · 5:00–6:00</div><div class="rtitle">Tuesday early dinner</div><div class="rbody"><b>Not chosen yet.</b> West End, near Soho.</div></div>
+<div class="res"><div class="rwhen">Tue 17 Nov · 4:30–5:30</div><div class="rtitle">Dinner (gluten-free spot TBD)</div><div class="rbody"><b>Not chosen yet.</b> Near the Palace Theatre; be at the theatre by 6:00.</div></div>
 <div class="res"><div class="rwhen">Wed 18 Nov · ~7:30–8:00</div><div class="rtitle">Wednesday final dinner</div><div class="rbody"><b>Not chosen yet.</b></div></div>
 <h3>Show &amp; tour</h3>
 <div class="res"><div class="rwhen">Tue 17 Nov · 19:00</div><div class="rtitle">Harry Potter and the Cursed Child</div><div class="rbody">Palace Theatre, 113 Shaftesbury Ave, London W1D 5AY<br><b>Stalls Row H, seats 14 &amp; 15</b> · booked with LondonTheatre.co.uk<br>E-tickets on the order confirmation page; also emailed 24 h before the show.<br>Theatre asks you to arrive 1 hour early; latecomers not admitted. No suitcases or large bags (over 41×31×16 cm); bags are searched.<br>Ticket protection: cancel before 7 p.m. Mon 16 Nov for a rebooking voucher. Help: <a class="tel" href="https://londontheatre.co.uk/support" target="_blank" rel="noopener">londontheatre.co.uk/support</a></div><div class="secret" data-k="cc"></div><div class="btns"><a class="btn g sm" href="https://www.google.com/maps/search/?api=1&amp;query=51.51310,-0.12984" target="_blank" rel="noopener">Google pin</a><a class="btn a sm" href="https://maps.apple.com/?ll=51.51310,-0.12984&amp;q=Palace+Theatre" target="_blank" rel="noopener">Apple pin</a></div></div>
@@ -209,7 +212,7 @@ Piccadilly line from Heathrow Terminals 2 &amp; 3 toward <b>Cockfosters</b>, 17 
 <nav class="tabs"><button data-t="mon"><b>Mon</b><span>16</span></button><button data-t="tue"><b>Tue</b><span>17</span></button><button data-t="wed"><b>Wed</b><span>18</span></button><button data-t="book"><b>Bookings</b><span>&nbsp;</span></button></nav>
 <div id="viewer" hidden><div class="vbar"><button id="vclose">Close</button><button id="vzoom">Zoom +</button></div><div class="vscroll"><img id="vimg" alt=""></div></div>
 <script>(function(){
[2 lines of base64/hex data omitted]
 var tabs=["mon","tue","wed","book"];
 function show(t){if(tabs.indexOf(t)<0)t="mon";
  tabs.forEach(function(x){document.getElementById(x).classList.toggle("on",x===t)});

diff --git a/sw.js b/sw.js
@@ -1,5 +1,5 @@
 // Offline cache: serve cached copy, refresh in background. Only same-origin GETs.
-var V="london-1918400a86";
+var V="london-c16f6ac261";
 var FILES=["./", "./app-icon-180.png", "./app-icon-192.png", "./app-icon-32.png", "./app-icon-512.png", "./favicon.ico", "./img/mon_a.jpg", "./img/mon_b.jpg", "./img/mon_overview.jpg", "./img/mon_tube.jpg", "./img/tue_morning.jpg", "./img/tue_overview.jpg", "./img/tue_west.jpg", "./img/wed_overview.jpg", "./index.html", "./manifest.webmanifest"];
 self.addEventListener("install",function(e){e.waitUntil(caches.open(V).then(function(c){return c.addAll(FILES)}).then(function(){return self.skipWaiting()}))});
 self.addEventListener("activate",function(e){e.waitUntil(caches.keys().then(function(k){return Promise.all(k.filter(function(x){return x!==V}).map(function(x){return caches.delete(x)}))}).then(function(){return self.clients.claim()}))});
